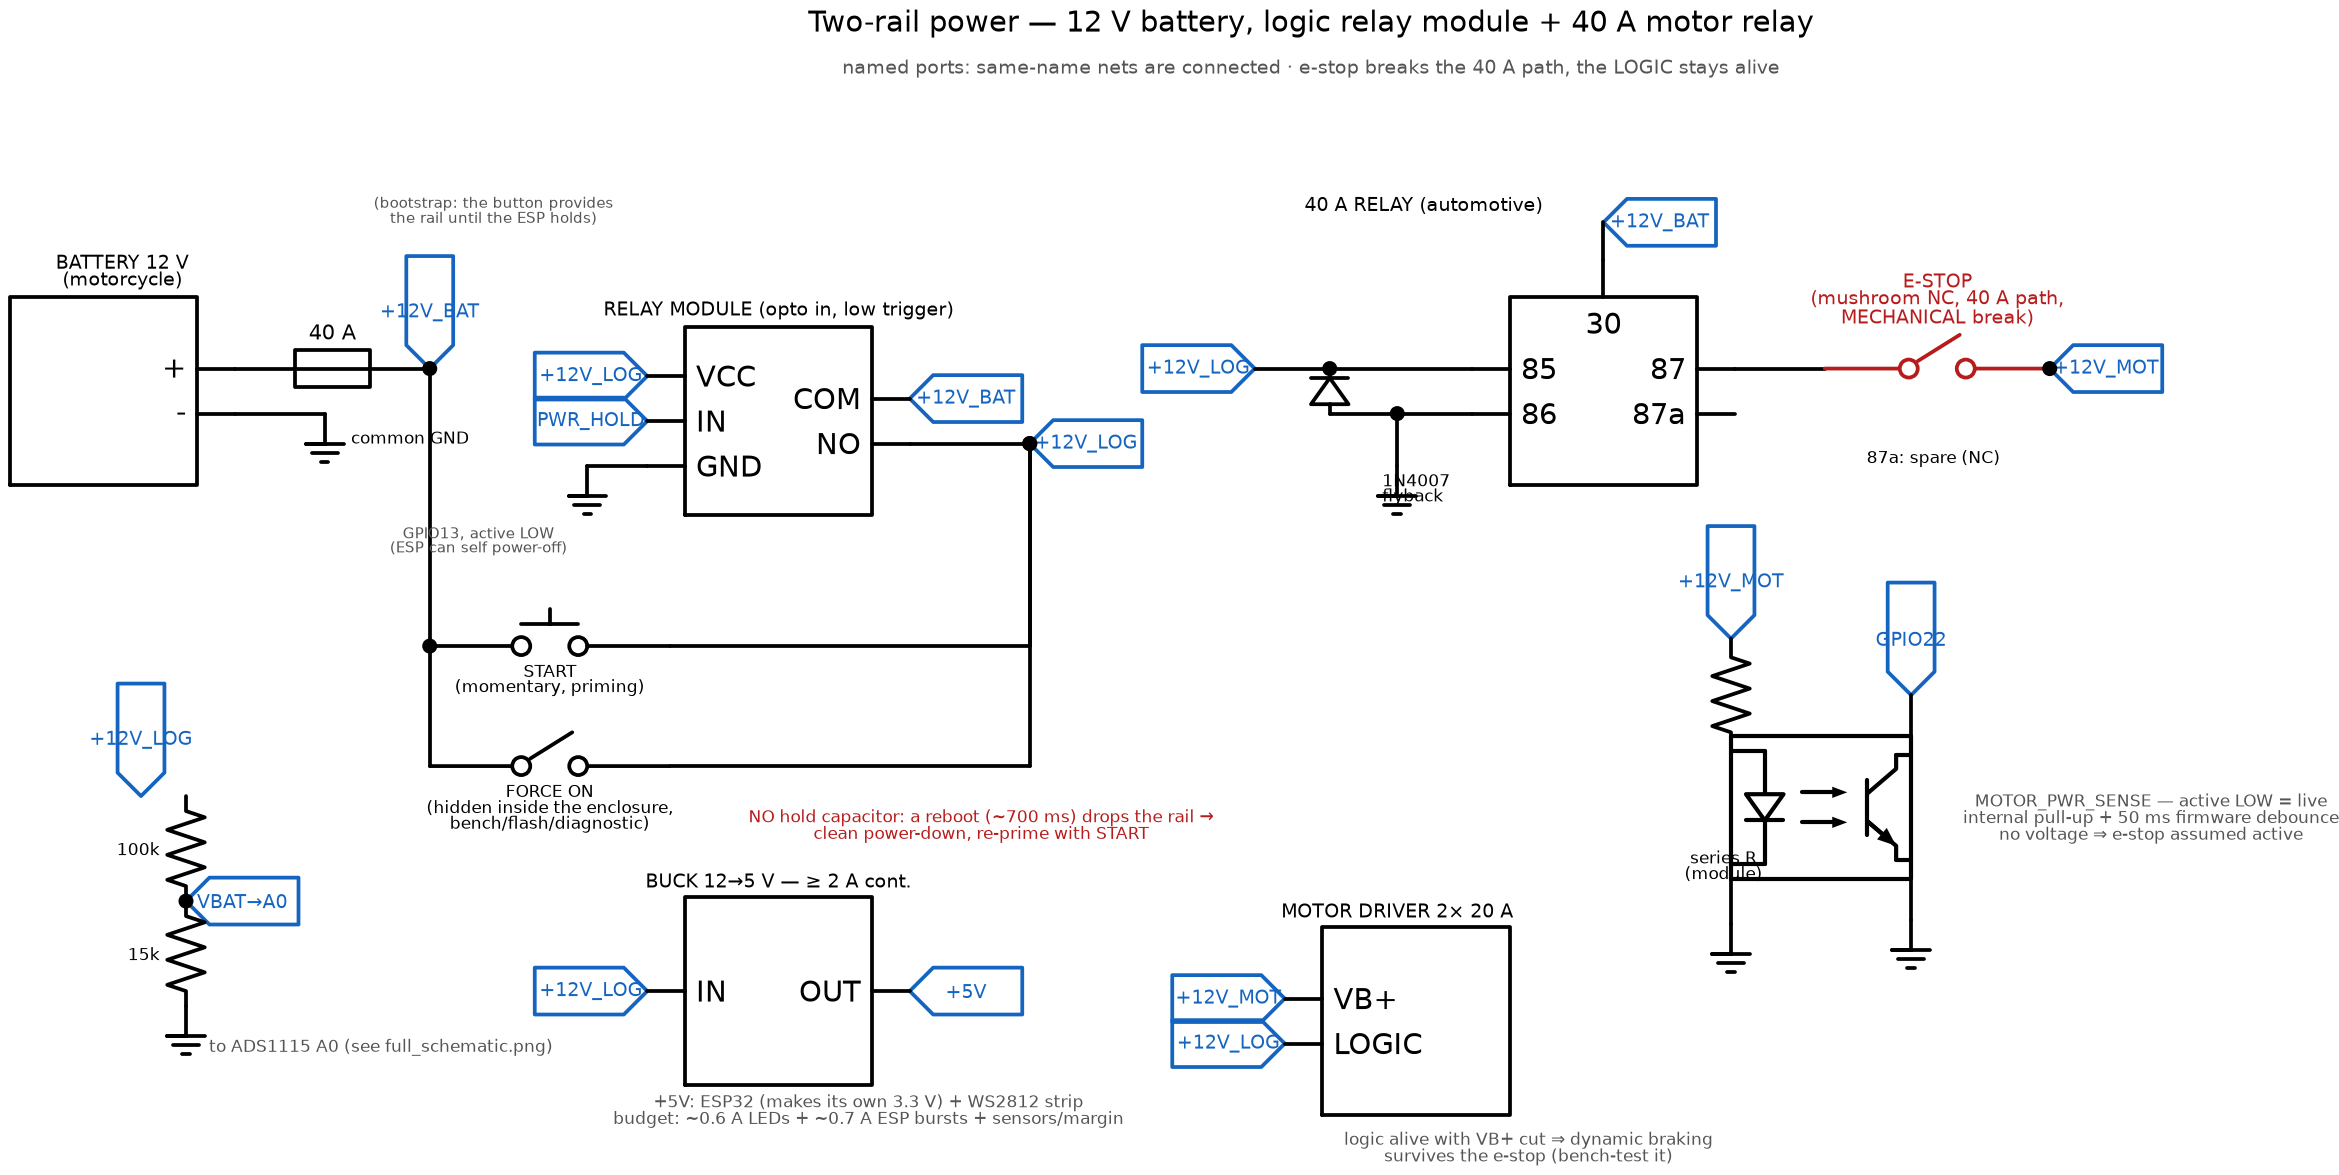
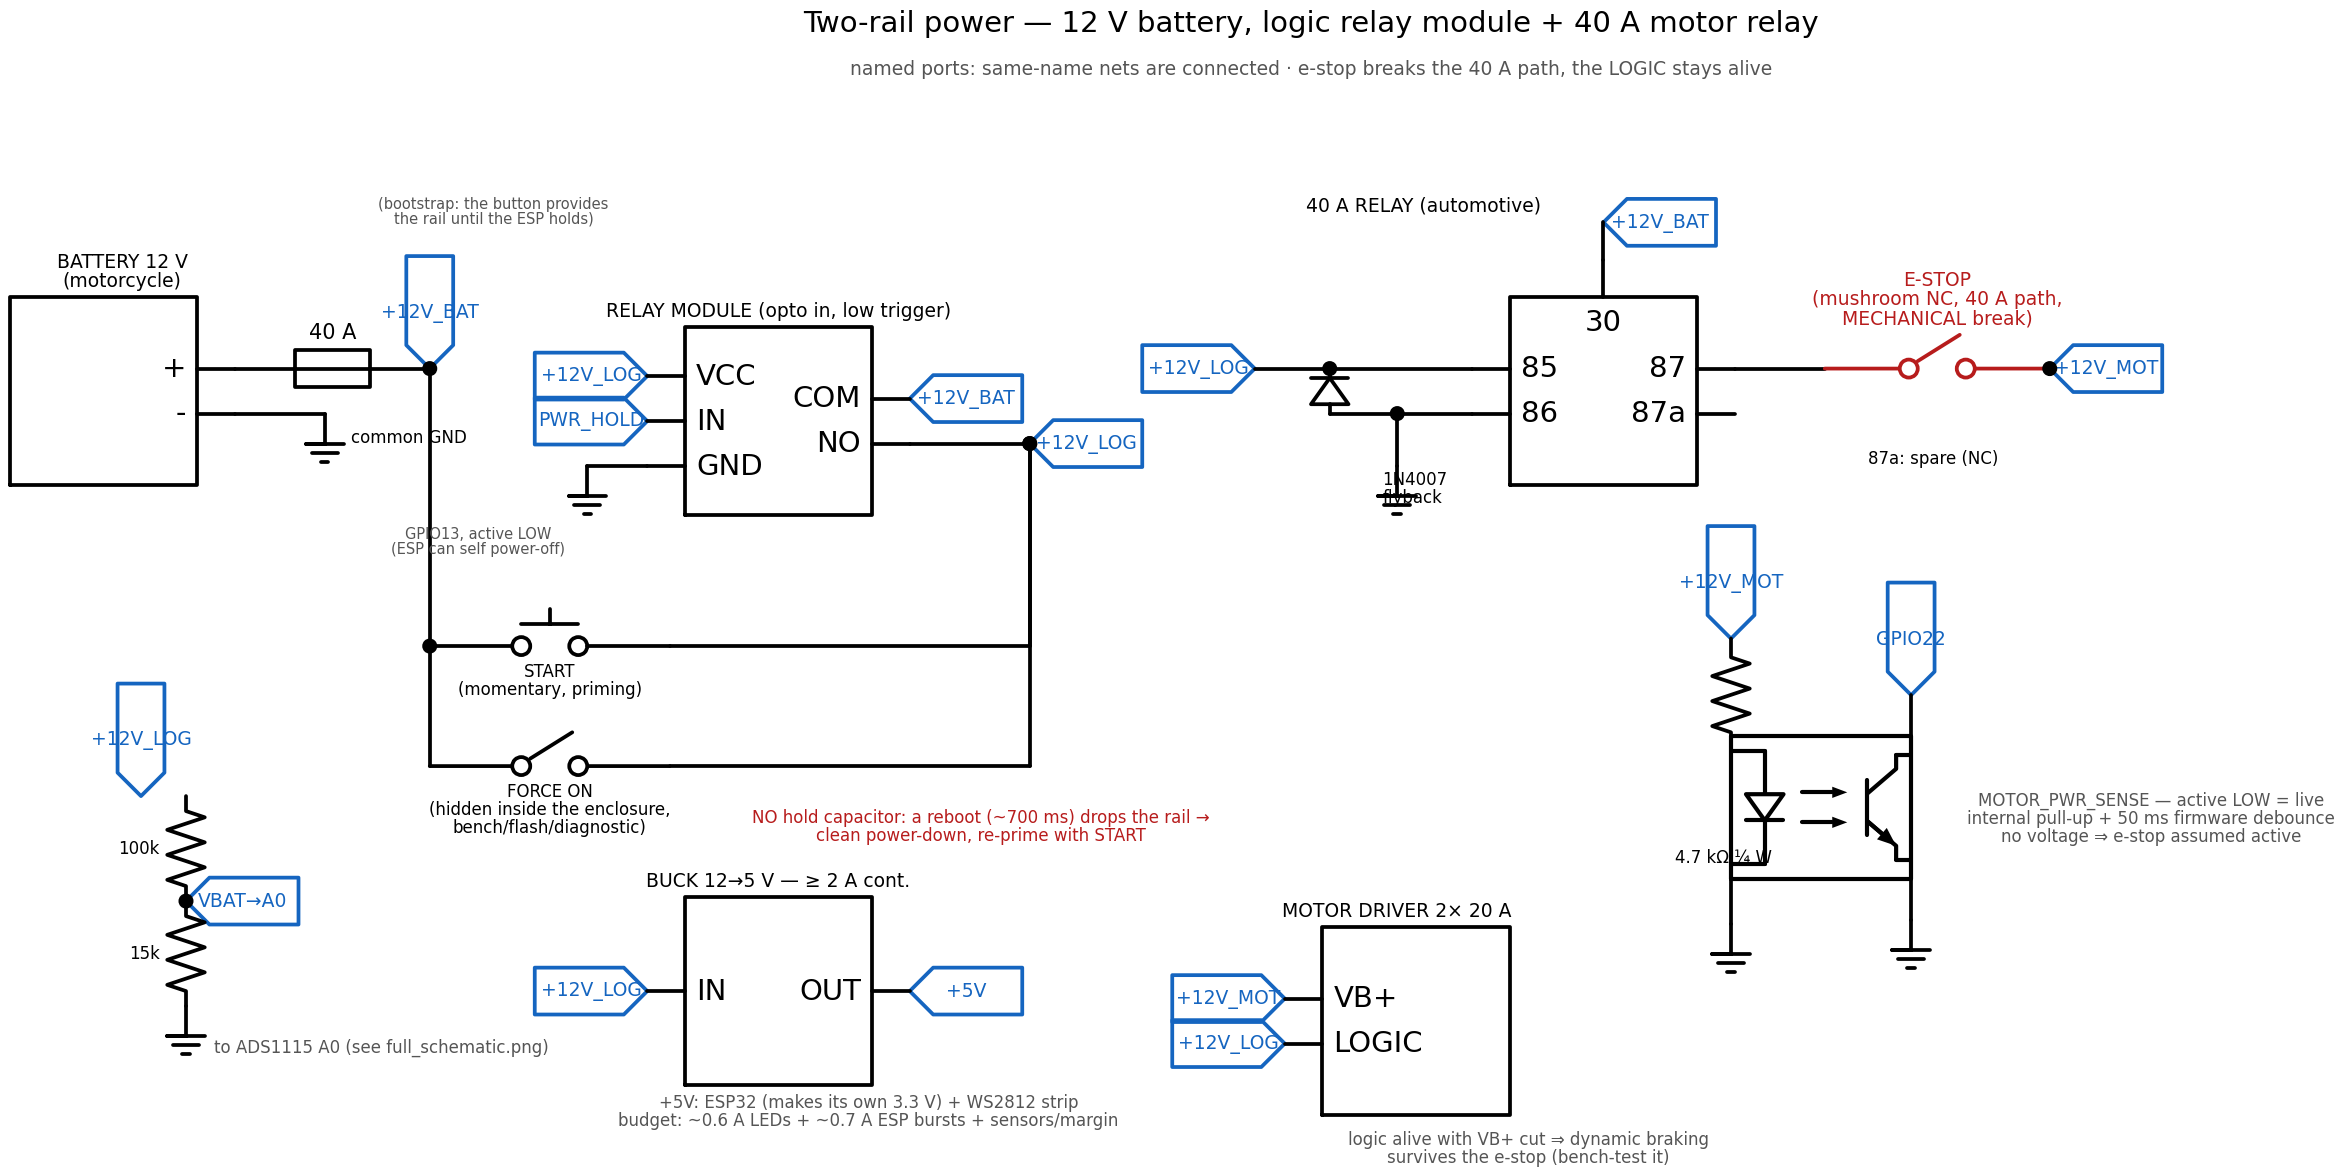
Sense opto input resistor: 4.7 kOhm 1/4 W, shown with its math
Asked to calculate it, so the number carries its derivation: the output side
only sinks the GPIO's internal pull-up (~73 uA, 110 uA at the strongest 30 k
corner), so the LED side dictates everything. R = (V - Vf)/If with Vf ~1.2 V:
4.7 k gives 2.0-2.9 mA across the whole 10.5-14.8 V battery range, 39 mW
worst-case in the resistor (a 1/4 W part loafs), and even a minimum-CTR PC817
at the LVC floor against the strongest pull-up keeps a x9 margin. 1 kOhm
(10 mA class) also works but needs 1/2 W and buys nothing the 50 ms firmware
debounce does not already provide. Module note: 12 V-rated inputs need
nothing; 3.3/5 V-rated ones get ~1-1.5 k added in series.

Chapter (sense section, BOM, wiring step 7) and the power_rails schematic
label now carry the value.

diff --git a/doc/schematics/power_rails.py b/doc/schematics/power_rails.py
@@ -119,7 +119,7 @@ with schemdraw.Drawing(file='doc/schematics/power_rails.png', dpi=150, show=Fals
 
     # ───────── Sense opto: is the motor rail actually live? ─────────
     opto = d.add(elm.Optocoupler(box=True).right().anchor('anode').at((13.2, 4.2)))
-    d += elm.Resistor().up().at(opto.anode).label('series R\n(module)', fontsize=8, loc='left', ofst=(-1.3, 0.1)).length(1.5)
+    d += elm.Resistor().up().at(opto.anode).label('4.7 kΩ ¼ W', fontsize=8, loc='left', ofst=(-1.3, 0.1)).length(1.5)
     flag(d, d.here, '+12V_MOT', 'up')
     d += elm.Line().down().at(opto.cathode).length(0.8)
     d += elm.Ground()

diff --git a/doc/electronique.md b/doc/electronique.md
@@ -65,8 +65,12 @@ re-arm. Releasing the mushroom never resumes drive on its own.
 - **E-stop (mushroom, NC, rated for the current) in the 40 A path itself** — a mechanical
   break of the drive current, not a signal to electronics. With no hold capacitor anywhere
   it acts instantly.
-- **Sense opto**: input LED (with its series resistor) across the **driver side** of the
-  e-stop → it reads what the driver actually receives. Output transistor between **GPIO22**
+- **Sense opto**: input LED through **4.7 kΩ ¼ W** across the **driver side** of the
+  e-stop → it reads what the driver actually receives. Sizing: R = (V − Vf)/If with
+  Vf ≈ 1.2 V gives 2.0–2.9 mA over the whole 10.5–14.8 V battery range (39 mW worst in the
+  resistor); the transistor only has to sink the GPIO's internal pull-up (~73 µA), so even
+  a minimum-CTR PC817 at the LVC floor keeps a ×9 margin. A ready-made opto module rated
+  12 V needs nothing added; one rated 3.3/5 V gets ~1–1.5 kΩ in series with its input. Output transistor between **GPIO22**
   and GND; the pin idles on the ESP32's internal pull-up (that is why it is GPIO22 — the
   input-only 34–39 have no pull hardware) and the firmware debounces 50 ms, so a spike
   coupled from the neighbouring 40 A cabling cannot fake an emergency stop.
@@ -128,7 +132,7 @@ a 40 A acceleration cannot false-trip. Decoupling capacitor (100 nF) at A0.
 | 11 | Motor driver | dual channel, 20 A/ch, 6–30 V, PWM+DIR | 1 | both front motors |
 | 12 | ADS1115 breakout | 16-bit I²C ADC, addr 0x48 | 1 | Vbat on A0 (bus 0, 3.3 V) |
 | 13 | AS5600 breakout + diametric magnet | 12-bit angle, I²C 0x36 | 2 | one per wheel, one per bus |
-| 14 | Sense optocoupler (or opto module) | LED side 12 V w/ series R; transistor out | 1 | motor-rail presence → GPIO22 |
+| 14 | Sense optocoupler (or opto module) | PC817-class; input via **4.7 kΩ ¼ W** | 1 | motor-rail presence → GPIO22 |
 | 15 | Resistors 100 k + 15 k | 1 %, ¼ W | 1+1 | Vbat divider (**matches `hw::VBAT_R_*`**) |
 | 16 | Resistors 4.7 k | ¼ W | 4 | I²C pull-ups (2 per bus) |
 | 17 | Resistor ~330 Ω | ¼ W | 1 | WS2812 DIN series |
@@ -158,9 +162,10 @@ Work with the battery disconnected; connect it last.
 6. **40 A relay pin 87 → e-stop (NC) → driver VB+** — 10 AWG throughout; the mushroom sits at
    the top of the seatback. Driver VB− → ground bus (10 AWG). ⚠ **Triple-check VB+/VB−
    polarity before the battery goes in — the driver has no reverse protection.**
-7. **Sense opto**: LED input (through its series resistor / module input) across
-   **driver-side e-stop output** (+) and ground; output: collector → **GPIO22**, emitter →
-   GND. No external pull-up needed (internal).
+7. **Sense opto**: LED input through **4.7 kΩ ¼ W** across **driver-side e-stop output**
+   (+) and ground (12 V-rated modules have it onboard; 3.3/5 V modules get ~1–1.5 kΩ
+   added); output: collector → **GPIO22**, emitter → GND. No external pull-up needed
+   (internal).
 8. **Buck**: IN ← +12V_LOG (+ ≥ 470 µF bulk at its input), OUT 5 V → ESP32 5V/VIN, WS2812
    strip (with its 470–1000 µF at the strip head), ground to the bus.
 9. **Divider**: 100 k from +12V_LOG to node A0, 15 k from node to ground, 100 nF across the
